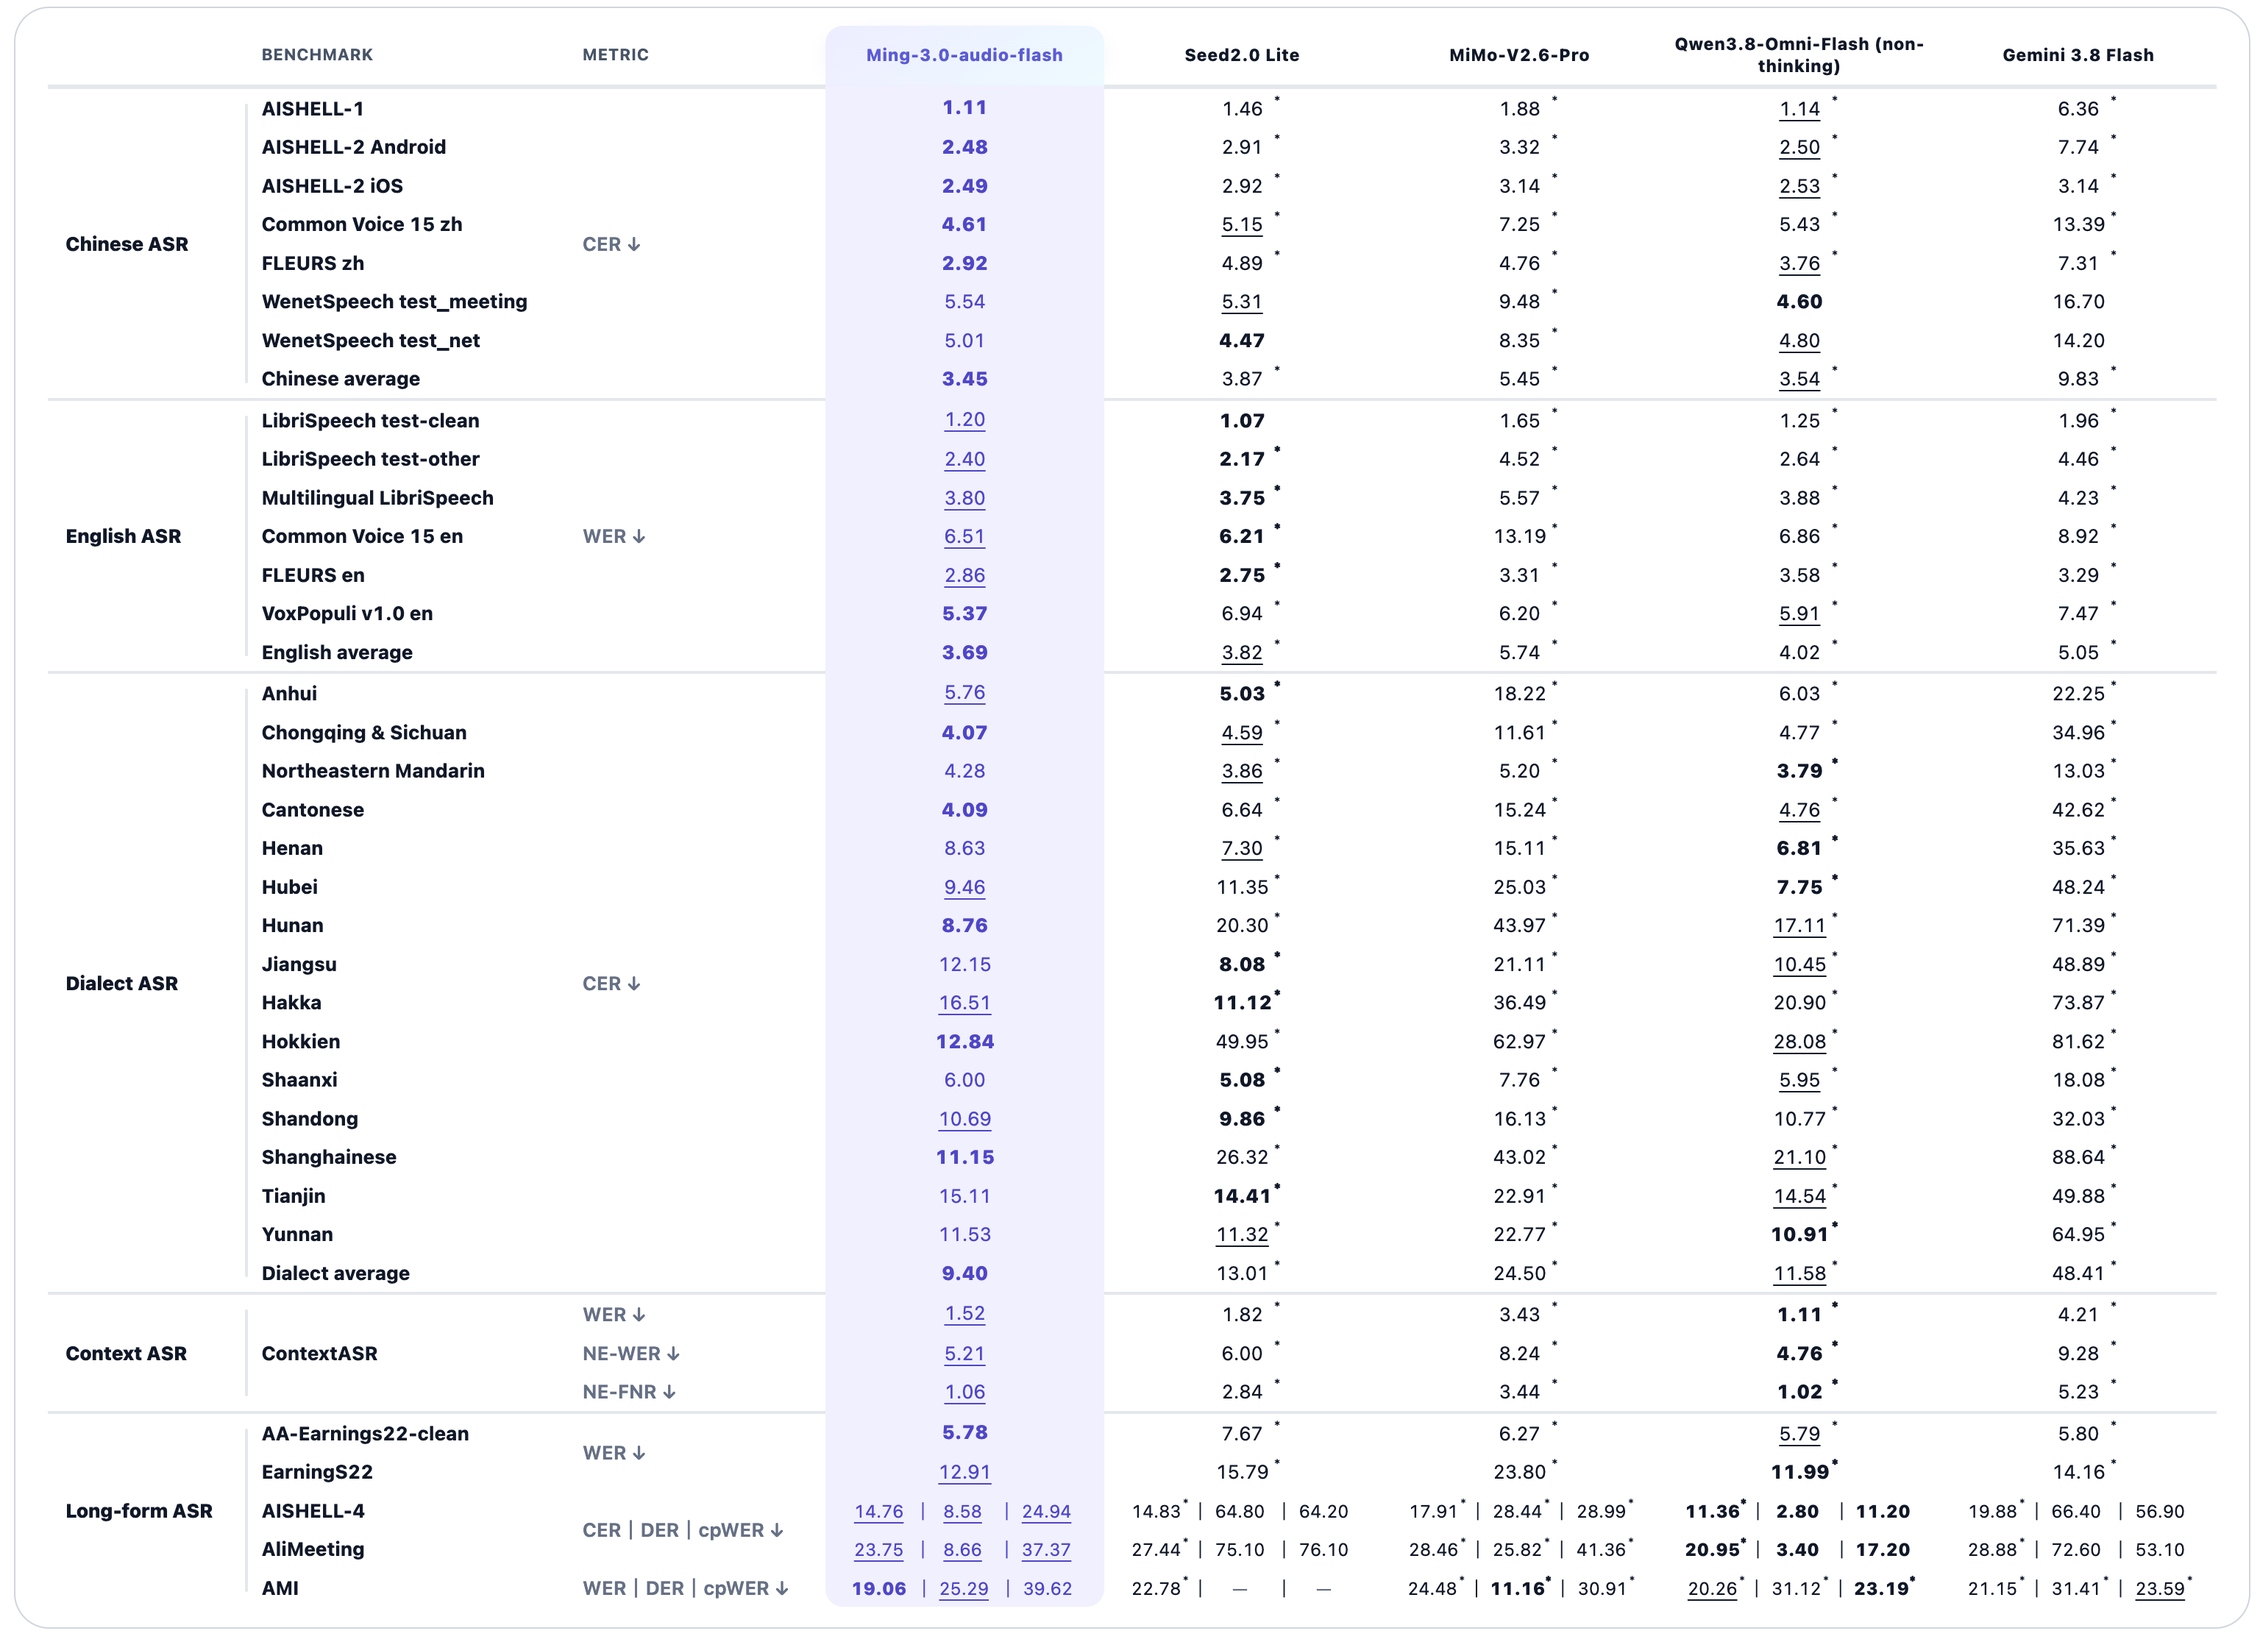
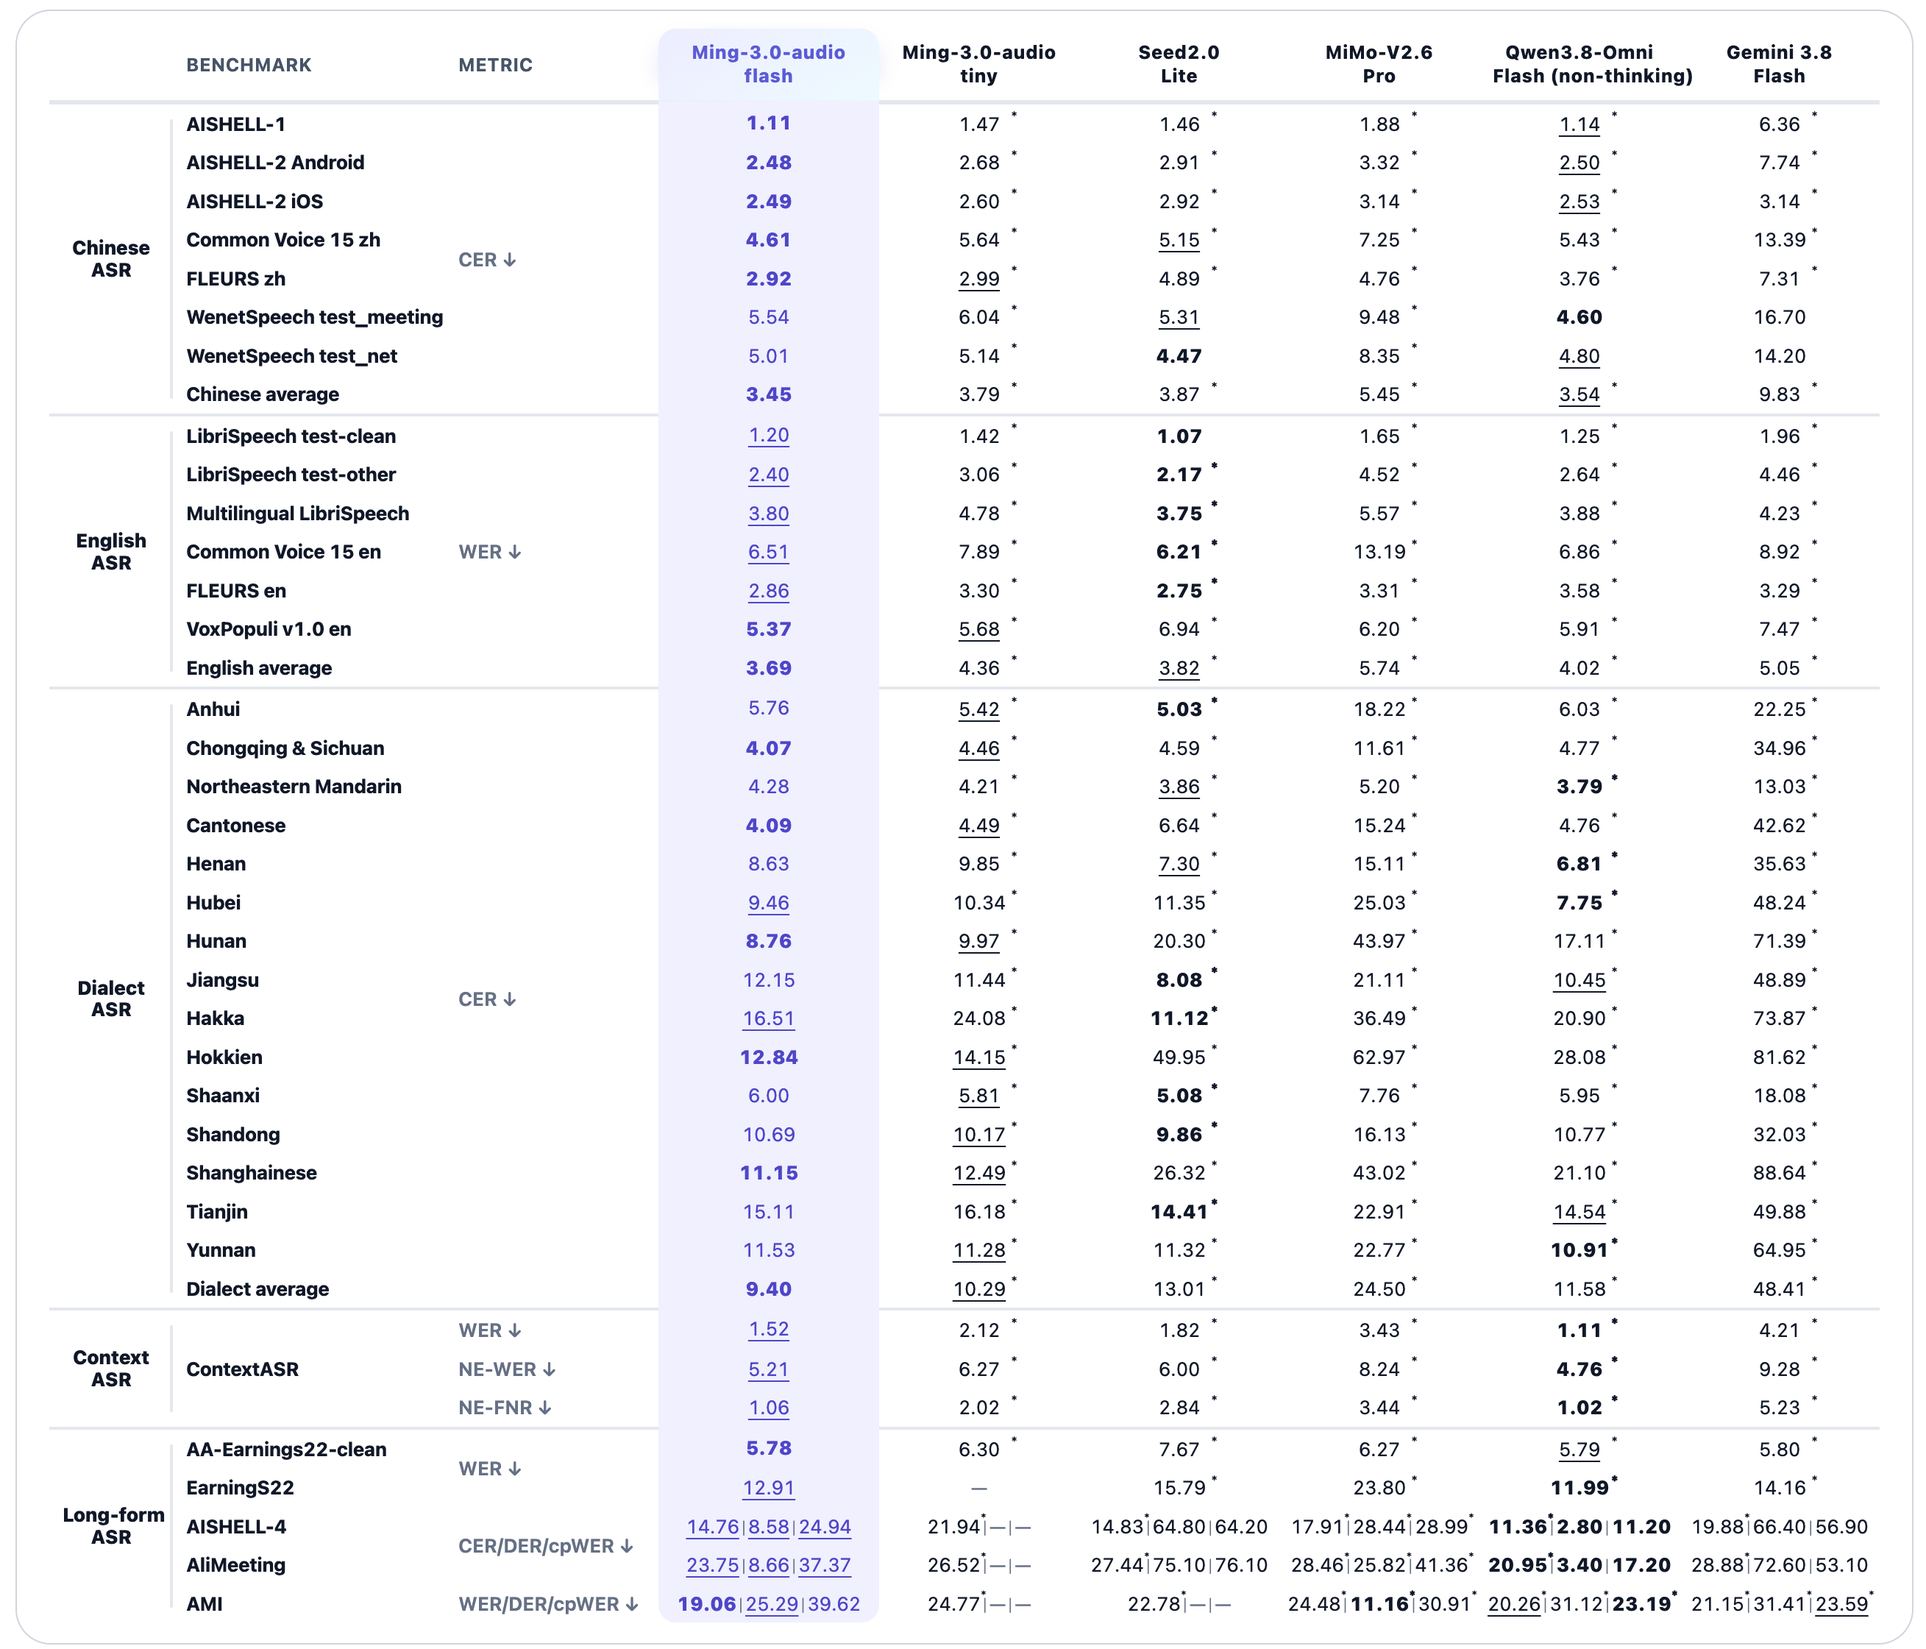
Update readme

diff --git a/README.md b/README.md
@@ -11,14 +11,24 @@ reasoning, and end-to-end spoken interaction.
 [![Transformers: 5.14.1](https://img.shields.io/badge/Transformers-5.14.1-ffcc4d.svg)](requirements-transformers.txt)
 [![Serving: vLLM--Omni](https://img.shields.io/badge/Serving-vLLM--Omni-7c3aed.svg)](requirements-vllm-omni.txt)
 
-[Hugging Face](https://huggingface.co/inclusionAI/Ming-3.0-audio-flash)
-· [ModelScope](https://modelscope.cn/models/inclusionAI/Ming-3.0-audio-flash)
+[Hugging Face · Flash](https://huggingface.co/inclusionAI/Ming-3.0-audio-flash)
+· [Hugging Face · Tiny](https://huggingface.co/inclusionAI/Ming-3.0-audio-tiny)
+· [ModelScope · Flash](https://modelscope.cn/models/inclusionAI/Ming-3.0-audio-flash)
 · [Cookbook](cookbook.ipynb)
 · [Examples](examples/README.md)
 
 </div>
 
 ---
+
+## 🧩 Model Variants
+
+- **[Ming-3.0-audio-flash](https://huggingface.co/inclusionAI/Ming-3.0-audio-flash)** —
+  The model documented in this repository and used by the examples and
+  benchmark results below.
+- **[Ming-3.0-audio-tiny](https://huggingface.co/inclusionAI/Ming-3.0-audio-tiny)** —
+  A compact member of the Ming-3.0-audio family. See its model card for
+  checkpoint details and usage guidance.
 
 ## ✨ Highlights
 
